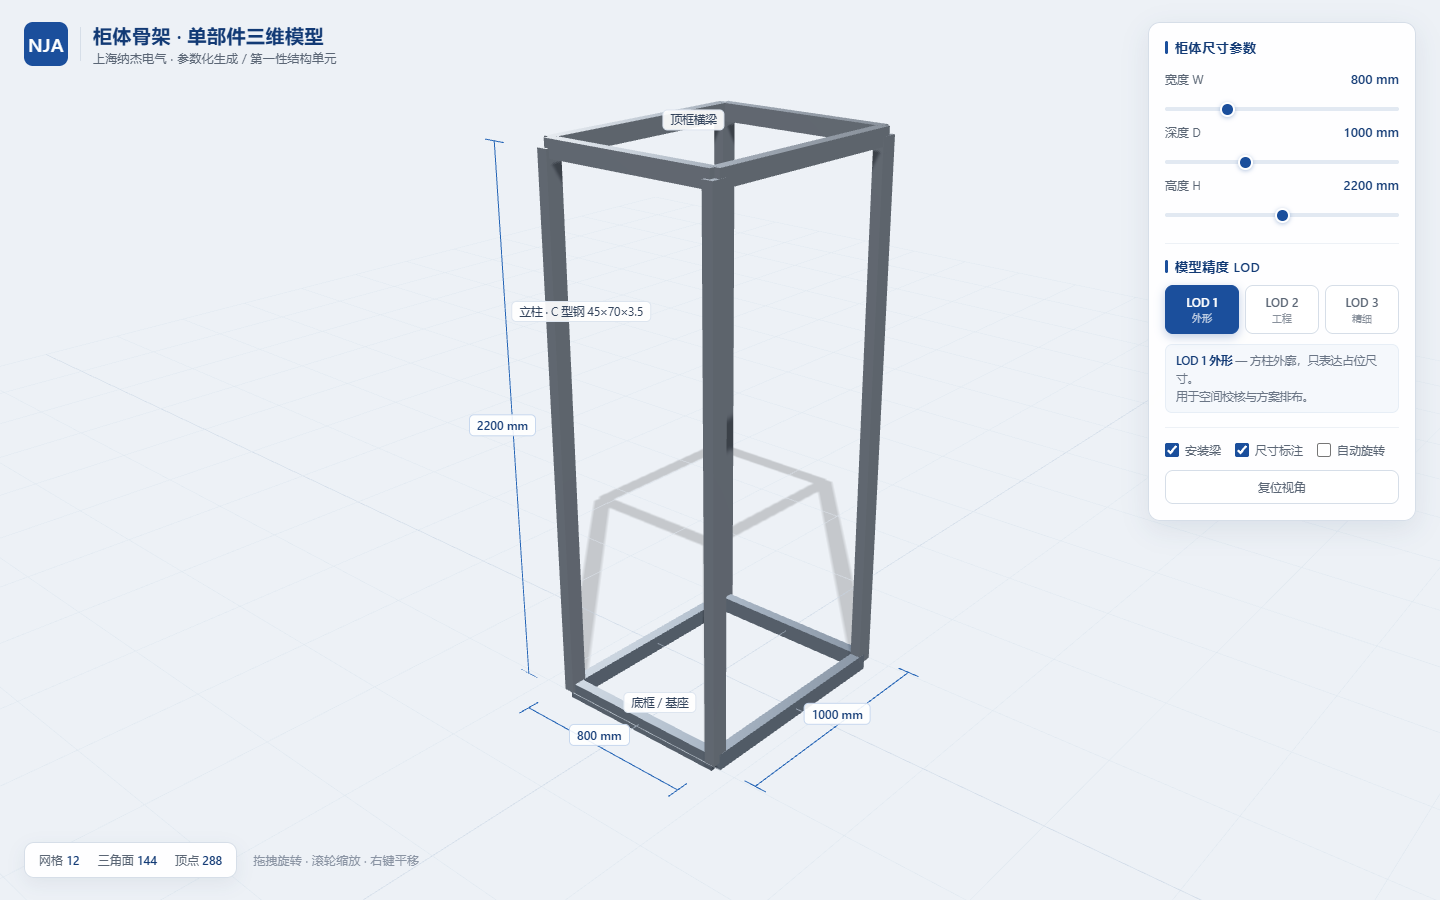
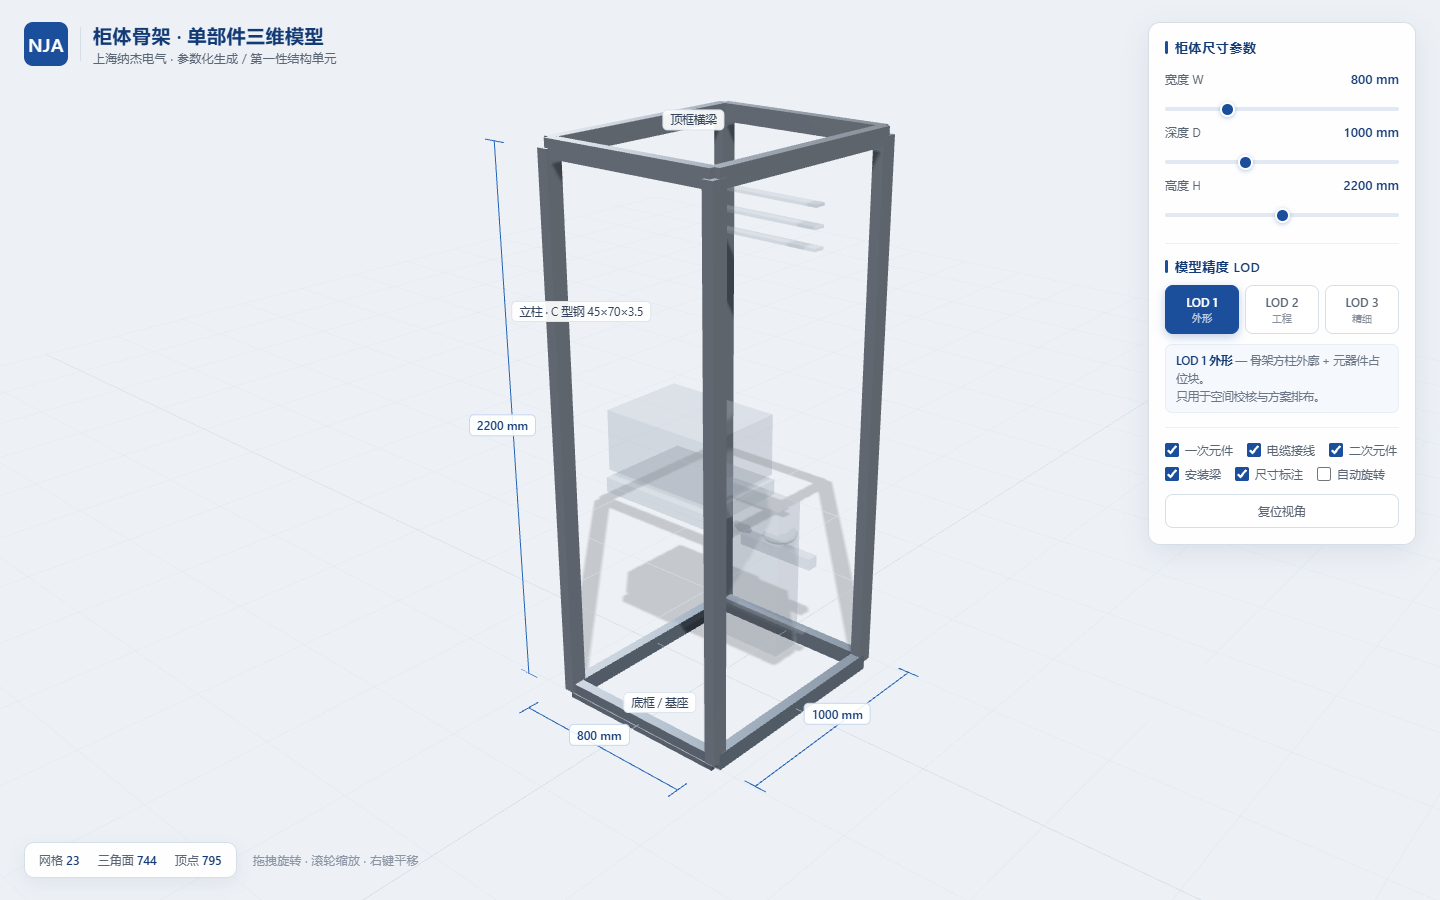
feat: 柜内元器件与电缆三维建模
在骨架内补齐柜内一次回路与接线：
- 一次元件：主母排 A/B/C 三相 + 支柱绝缘子、手车式断路器
  （机构箱 / 底盘车 / 三相极柱 / 触头盒）、电流互感器 ×3、接地母排
- 电缆接线：三相电力电缆按 CatmullRomCurve3 空间路径 + TubeGeometry 扫掠成体，
  含电缆头与热缩端；二次端子排（LOD3 带端子分片）
- 二次元件：仪表室三表 + 面板
- 面板新增「一次元件 / 电缆接线 / 二次元件」三个分组开关
- LOD 重定义：1 占位块 → 2 一次回路 → 3 追加二次元件与细节

实测规模：LOD1 744 面 / LOD2 4,532 面 / LOD3 6,084 面

diff --git a/index.html b/index.html
@@ -123,6 +123,9 @@
 
   <div class="sec">
     <div class="toggles">
+      <label class="tg"><input type="checkbox" id="tPrimary" checked>一次元件</label>
+      <label class="tg"><input type="checkbox" id="tCable" checked>电缆接线</label>
+      <label class="tg"><input type="checkbox" id="tSecondary" checked>二次元件</label>
       <label class="tg"><input type="checkbox" id="tMount" checked>安装梁</label>
       <label class="tg"><input type="checkbox" id="tDim" checked>尺寸标注</label>
       <label class="tg"><input type="checkbox" id="tSpin" checked>自动旋转</label>
@@ -161,7 +164,8 @@ try {
   throw e;
 }
 
-const P = { W:0.80, D:1.00, H:2.20, lod:2, mount:true, dim:true };
+const P = { W:0.80, D:1.00, H:2.20, lod:2, mount:true, dim:true,
+            primary:true, cable:true, secondary:true };
 const SEC = { a:0.045, b:0.070, t:0.0035 };
 
 const canvas = document.getElementById('c');
@@ -227,6 +231,18 @@ const matSteel = new THREE.MeshStandardMaterial({ color:0xC5CDD7, metalness:0.72
 const matSteelDark = new THREE.MeshStandardMaterial({ color:0xA9B4C1, metalness:0.68, roughness:0.42 });
 const matZinc = new THREE.MeshStandardMaterial({ color:0xD3DAE2, metalness:0.60, roughness:0.38 });
 const matLine = new THREE.LineBasicMaterial({ color:0x1B4F9C, transparent:true, opacity:0.85 });
+
+const matBreaker     = new THREE.MeshStandardMaterial({ color:0x4C5764, metalness:0.35, roughness:0.55 });
+const matBreakerDark = new THREE.MeshStandardMaterial({ color:0x303943, metalness:0.42, roughness:0.48 });
+const matPanelBox    = new THREE.MeshStandardMaterial({ color:0x8E99A6, metalness:0.30, roughness:0.60 });
+const matGlass       = new THREE.MeshStandardMaterial({ color:0xDCE8F2, metalness:0.05, roughness:0.10, emissive:0x2A3A4C, emissiveIntensity:0.22 });
+const matPhaseA      = new THREE.MeshStandardMaterial({ color:0xE0B400, metalness:0.55, roughness:0.34 });
+const matPhaseB      = new THREE.MeshStandardMaterial({ color:0x1E9C46, metalness:0.55, roughness:0.34 });
+const matPhaseC      = new THREE.MeshStandardMaterial({ color:0xD13B2C, metalness:0.55, roughness:0.34 });
+const matCopper      = new THREE.MeshStandardMaterial({ color:0xB87333, metalness:0.86, roughness:0.28 });
+const matInsulator   = new THREE.MeshStandardMaterial({ color:0x8A4A3C, metalness:0.14, roughness:0.72 });
+const matCable       = new THREE.MeshStandardMaterial({ color:0x22252A, metalness:0.08, roughness:0.88 });
+const matGhost       = new THREE.MeshStandardMaterial({ color:0xA8B2BF, metalness:0.20, roughness:0.80, transparent:true, opacity:0.32 });
 
 const root = new THREE.Group();
 const dimGroup = new THREE.Group();
@@ -326,6 +342,7 @@ function build(){
     }
   }
 
+  buildComponents();
   buildDims();
   updateStats();
 }
@@ -342,6 +359,152 @@ function dimLabel(text, pos){
   const o = new CSS2DObject(d);
   o.position.copy(pos);
   dimGroup.add(o);
+}
+
+function buildComponents(){
+  const { W, D, H, lod } = P;
+  const xIn = W / 2 - SEC.a, zIn = D / 2 - SEC.b;
+  const ghost = lod === 1;
+
+  const M = (m) => ghost ? matGhost : m;
+  const put = (mesh) => { mesh.castShadow = true; mesh.receiveShadow = true; root.add(mesh); return mesh; };
+  const box = (w, h, d, m) => new THREE.Mesh(new THREE.BoxGeometry(w, h, d), M(m));
+  const cyl = (r, h, m, s) => new THREE.Mesh(new THREE.CylinderGeometry(r, r, h, s || 16), M(m));
+
+  if (P.primary){
+    const busLen = Math.max(0.32, W - 2 * SEC.a - 0.20);
+    const busZ = -zIn + 0.17, busY = H * 0.855;
+    [[matPhaseC, 0.082], [matPhaseB, 0], [matPhaseA, -0.082]].forEach(([m, dy]) => {
+      const bar = box(busLen, 0.012, 0.05, m);
+      bar.position.set(0, busY + dy, busZ);
+      put(bar);
+    });
+    if (lod >= 2){
+      [-0.19, 0, 0.19].forEach(x => {
+        if (Math.abs(x) > xIn - 0.09) return;
+        const ins = cyl(0.026, 0.10, matInsulator, 14);
+        ins.position.set(x, busY - 0.20, busZ); put(ins);
+      });
+    }
+
+    const bw = Math.min(W * 0.62, 0.52);
+    const bh = H * 0.185, bd = Math.min(D * 0.40, 0.40);
+    const by = H * 0.50, bz = zIn * 0.40;
+
+    const chassis = box(bw, bh * 0.15, bd, matBreakerDark);
+    chassis.position.set(0, by - bh * 0.44, bz); put(chassis);
+
+    const body = box(bw, bh * 0.60, bd * 0.92, matBreaker);
+    body.position.set(0, by, bz); put(body);
+
+    if (!ghost){
+      const face = box(bw * 0.60, bh * 0.44, 0.016, matPanelBox);
+      face.position.set(0, by, bz + bd * 0.475); put(face);
+      [-1, 1].forEach(k => {
+        const lamp = cyl(0.015, 0.016, k > 0 ? matPhaseC : matPhaseB, 12);
+        lamp.rotation.x = Math.PI / 2;
+        lamp.position.set(k * bw * 0.21, by + bh * 0.11, bz + bd * 0.49); put(lamp);
+      });
+    }
+
+    if (lod >= 2){
+      [-1, 0, 1].forEach(k => {
+        const pole = cyl(bw * 0.085, bh * 0.44, matBreakerDark, 14);
+        pole.position.set(k * bw * 0.30, by + bh * 0.52, bz); put(pole);
+        const cap = cyl(bw * 0.105, 0.020, matCopper, 14);
+        cap.position.set(k * bw * 0.30, by + bh * 0.75, bz); put(cap);
+      });
+    }
+    if (lod >= 3){
+      [-1, 0, 1].forEach(k => {
+        const tc = box(0.075, 0.085, 0.085, matInsulator);
+        tc.position.set(k * bw * 0.30, by + bh * 0.86, bz); put(tc);
+      });
+    }
+
+    const ctY = H * 0.285, ctZ = -zIn + 0.24;
+    const ctR = Math.min(0.052, W * 0.07);
+    [-1, 0, 1].forEach(k => {
+      const ring = new THREE.Mesh(new THREE.TorusGeometry(ctR, ctR * 0.40, 6, 14), M(matInsulator));
+      ring.rotation.x = Math.PI / 2;
+      ring.position.set(k * Math.min(W * 0.19, 0.16), ctY, ctZ); put(ring);
+    });
+
+    const gnd = box(Math.max(0.30, W * 0.58), 0.010, 0.038, matCopper);
+    gnd.position.set(0, H * 0.075, -zIn + 0.16); put(gnd);
+
+    if (lod >= 3){
+      [-1, 0, 1].forEach(k => {
+        const mo = cyl(0.024, 0.11, matInsulator, 12);
+        mo.position.set(k * Math.min(W * 0.20, 0.17), H * 0.155, -zIn + 0.245); put(mo);
+      });
+    }
+  }
+
+  if (P.cable){
+    const cx = Math.min(W * 0.19, 0.16);
+    const ctY = H * 0.285, ctZ = -zIn + 0.24;
+
+    if (lod === 1){
+      const blk = box(cx * 2 + 0.06, H * 0.30, 0.14, matGhost);
+      blk.position.set(0, H * 0.19, -zIn + 0.22); put(blk);
+    } else {
+      const phases = [matPhaseC, matPhaseB, matPhaseA];
+      [-1, 0, 1].forEach((k, i) => {
+        const x = k * cx;
+        const curve = new THREE.CatmullRomCurve3([
+          new THREE.Vector3(x, 0.055, -zIn + 0.33),
+          new THREE.Vector3(x, 0.18, -zIn + 0.29),
+          new THREE.Vector3(x, 0.40, -zIn + 0.26),
+          new THREE.Vector3(x, ctY, ctZ),
+          new THREE.Vector3(x, ctY + 0.20, ctZ - 0.01),
+          new THREE.Vector3(x, ctY + 0.32, ctZ + 0.22)
+        ]);
+        put(new THREE.Mesh(new THREE.TubeGeometry(curve, 30, 0.019, 8, false), matCable));
+        const head = cyl(0.024, 0.055, phases[i], 12);
+        head.position.set(x, 0.085, -zIn + 0.325); put(head);
+        const boot = cyl(0.023, 0.045, matBreakerDark, 12);
+        boot.position.set(x, ctY + 0.29, ctZ + 0.20); put(boot);
+      });
+
+      if (lod >= 3){
+        [[-0.075, 0], [0.105, 0]].forEach(([dx]) => {
+          const curve = new THREE.CatmullRomCurve3([
+            new THREE.Vector3(dx, 0.06, -zIn + 0.35),
+            new THREE.Vector3(dx + 0.015, 0.30, -zIn + 0.31),
+            new THREE.Vector3(dx + 0.030, 0.54, -zIn + 0.35),
+            new THREE.Vector3(dx + 0.040, 0.74, -zIn + 0.41)
+          ]);
+          put(new THREE.Mesh(new THREE.TubeGeometry(curve, 22, 0.008, 6, false), matCable));
+        });
+      }
+    }
+
+    const tw = Math.max(0.26, W * 0.46);
+    const term = box(tw, 0.052, 0.050, matPanelBox);
+    term.position.set(0, H * 0.195, -zIn + 0.055); put(term);
+    if (lod >= 3){
+      const n = 7;
+      for (let i = 0; i < n; i++){
+        const dv = box(0.006, 0.058, 0.054, matBreakerDark);
+        dv.position.set(-tw / 2 + (i + 1) * tw / (n + 1), H * 0.195, -zIn + 0.055);
+        put(dv);
+      }
+    }
+  }
+
+  if (P.secondary && lod >= 2){
+    const my = H * 0.855, mz = zIn - 0.085;
+    const plate = box(Math.max(0.30, W * 0.44), 0.125, 0.012, matPanelBox);
+    plate.position.set(0, my, mz - 0.014); put(plate);
+    [-1, 0, 1].forEach(k => {
+      const dial = cyl(0.034, 0.014, matGlass, 18);
+      dial.rotation.x = Math.PI / 2;
+      dial.position.set(k * 0.115, my, mz); put(dial);
+      const rim = new THREE.Mesh(new THREE.TorusGeometry(0.036, 0.0045, 6, 18), matBreakerDark);
+      rim.position.set(k * 0.115, my, mz); put(rim);
+    });
+  }
 }
 
 function buildDims(){
@@ -377,6 +540,14 @@ function buildDims(){
   ];
   if (P.mount && P.lod >= 2) tags.push(['元件安装梁', new THREE.Vector3(-W * 0.30, 0.96, D / 2 + 0.09)]);
   if (P.lod === 3) tags.push(['加强竖梁', new THREE.Vector3(0.02, H * 0.32, D / 2 + 0.09)]);
+  if (P.primary && P.lod >= 2){
+    tags.push(['主母排 A/B/C', new THREE.Vector3(W * 0.22, H * 0.945, -D / 2 - 0.08)]);
+    tags.push(['手车式断路器', new THREE.Vector3(W * 0.36, H * 0.58, D / 2 + 0.10)]);
+    tags.push(['电流互感器', new THREE.Vector3(W * 0.34, H * 0.245, D / 2 + 0.10)]);
+  }
+  if (P.cable && P.lod >= 2){
+    tags.push(['电力电缆', new THREE.Vector3(-W * 0.36, H * 0.135, D / 2 + 0.10)]);
+  }
 
   tags.forEach(([txt, pos]) => {
     const d = document.createElement('div');
@@ -389,9 +560,9 @@ function buildDims(){
 }
 
 const LOD_NOTE = {
-  1: '<b>LOD 1 外形</b> — 方柱外廓，只表达占位尺寸。<br>用于空间校核与方案排布。',
-  2: '<b>LOD 2 工程</b> — 真实 C 型钢截面 + 前后安装梁。<br>可装配、可做干涉与维护空间检查。',
-  3: '<b>LOD 3 精细</b> — 增加加强竖梁、垫脚板、角部连接件。<br>可出加工图与装配图。'
+  1: '<b>LOD 1 外形</b> — 骨架方柱外廓 + 元器件占位块。<br>只用于空间校核与方案排布。',
+  2: '<b>LOD 2 工程</b> — 真实 C 型钢 + 断路器 / 互感器 / 三相母排<br>+ 电缆走向 + 端子排。可装配、可做干涉检查。',
+  3: '<b>LOD 3 精细</b> — 追加二次仪表、避雷器、支柱绝缘子、<br>备用控制电缆、端子分片。可出加工与装配图。'
 };
 
 function updateStats(){
@@ -446,9 +617,13 @@ document.getElementById('lod').addEventListener('click', e => {
   build();
 });
 
-document.getElementById('tMount').addEventListener('change', e => { P.mount = e.target.checked; build(); });
-document.getElementById('tDim').addEventListener('change', e => { P.dim = e.target.checked; buildDims(); });
-document.getElementById('tSpin').addEventListener('change', e => { controls.autoRotate = e.target.checked; });
+const bind = (id, fn) => document.getElementById(id).addEventListener('change', e => fn(e.target.checked));
+bind('tPrimary',   v => { P.primary = v; build(); });
+bind('tCable',     v => { P.cable = v; build(); });
+bind('tSecondary', v => { P.secondary = v; build(); });
+bind('tMount',     v => { P.mount = v; build(); });
+bind('tDim',       v => { P.dim = v; buildDims(); });
+bind('tSpin',      v => { controls.autoRotate = v; });
 document.getElementById('bReset').addEventListener('click', () => { setView(); });
 
 document.getElementById('tSpin').checked = true;

diff --git a/README.md b/README.md
@@ -1,12 +1,19 @@
 # 上海纳杰电气 · 高低压开关柜三维数字模型
 
-针对 NJA（上海纳杰电气）高低压开关柜的单部件三维建模验证工程。
+针对 NJA（上海纳杰电气）高低压开关柜的三维数字化验证工程。
 
 ## 这一版做了什么
 
-只做**一个部件**：柜体骨架（型钢框架）。
+在一个柜体骨架上，长出了完整的柜内一次回路与接线：
 
-选它作为起点的理由：骨架是柜体唯一的结构母体单元 —— 顶底板、前后柜门、隔室、安装梁，以及所有元器件最终都挂在它上面。而且它天然参数化：**一个 C 型钢截面函数，就能生成任意尺寸的柜架**。
+| 分区 | 内容 |
+|---|---|
+| 母线室（后上） | 主母排 A/B/C 三相 + 支柱绝缘子 |
+| 断路器室（前中） | 手车式断路器：机构箱 + 底盘车 + 三相极柱 + 触头盒 |
+| 电缆室（后下） | 电流互感器 ×3 + 电力电缆 + 二次端子排 + 避雷器 + 接地母排 |
+| 仪表室（前上） | 二次仪表 ×3 |
+
+**为什么从骨架起步**：骨架是柜体唯一的结构母体单元 —— 顶底板、柜门、隔室、安装梁，以及所有元器件最终都挂在它上面。而且它天然参数化：**一个 C 型钢截面函数，就能生成任意尺寸的柜架**。
 
 ## 在线访问
 
@@ -21,19 +28,20 @@ https://shinelu308.github.io/najie-cabinet-3d/
 | 操作 | 说明 |
 |---|---|
 | 拖拽 / 滚轮 / 右键拖拽 | 旋转 / 缩放 / 平移 |
-| 宽 · 深 · 高 滑块 | 实时重建骨架几何 |
+| 宽 · 深 · 高 滑块 | 实时重建全部几何 |
 | LOD 1 / 2 / 3 | 切换模型精度等级 |
+| 一次元件 / 电缆接线 / 二次元件 | 分组显示开关 |
 | 安装梁 · 尺寸标注 · 自动旋转 | 显示开关 |
 
 ## 模型精度（LOD）分级
 
 | LOD | 网格 | 三角面 | 顶点 | 工程含义 |
 |---|---|---|---|---|
-| 1 外形 | 12 | 144 | 288 | 方柱外廓，只表达占位尺寸，用于空间校核与方案排布 |
-| 2 工程 | 26 | 728 | 2,184 | 真实 C 型钢截面 + 前后安装梁，可装配、可做干涉与维护空间检查 |
-| 3 精细 | 56 | 1,488 | 4,000 | 增加加强竖梁、垫脚板、角部连接件，可出加工图与装配图 |
+| 1 外形 | 23 | 744 | 795 | 骨架方柱外廓 + 元器件占位块，用于空间校核与方案排布 |
+| 2 工程 | 64 | 4,532 | 5,687 | 真实 C 型钢截面 + 断路器 / 互感器 / 三相母排 / 电缆走向 / 端子排，可装配、可做干涉与维护空间检查 |
+| 3 精细 | 109 | 6,084 | 8,293 | 追加二次仪表、避雷器、支柱绝缘子、备用控制电缆、端子分片，可出加工图与装配图 |
 
-三档的差异不只是"好看程度"，而是**工作量与报价的分级依据**。整档模型控制在 1.5k 三角面以内，因此浏览器秒开。
+三档的差异不只是"好看程度"，而是**工作量与报价的分级依据**。最大档也只有约 6k 三角面 —— 浏览器依旧秒开，这是"最轻量化"路线的直接体现。
 
 ## 默认参数
 
@@ -57,12 +65,13 @@ outputs/
 
 单文件 HTML + three.js（CDN 引入）。所有几何由代码程序化生成，不依赖任何外部模型文件（无 STEP / glTF / OBJ）。
 
-核心只有三个函数：
+核心函数：
 
 ```
 cProfile(a, b, t)   →  C 型钢截面轮廓
-strut(len, axis)    →  按轴向挤出成型钢
-build()             →  阵列成完整柜架
+strut(len, axis)    →  按轴向挤出成型钢，阵列成柜架
+buildComponents()   →  一次元件 / 二次元件 / 电缆与接线
+CatmullRomCurve3 + TubeGeometry  →  电缆按空间路径扫掠成实体
 ```
 
-变更柜体尺寸或 LOD 时，几何全部重新计算，因此不存在"改了尺寸要重新建模"的问题。
+变更柜体尺寸、LOD 或显示分组时，几何全部重新计算，因此不存在"改了尺寸要重新建模"的问题。
